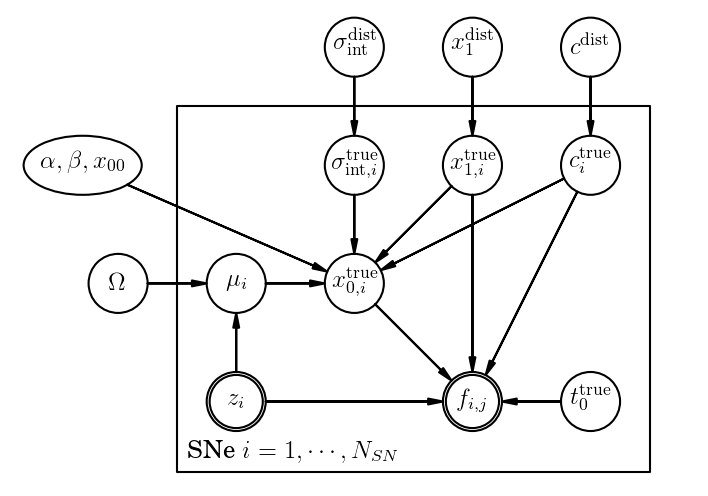
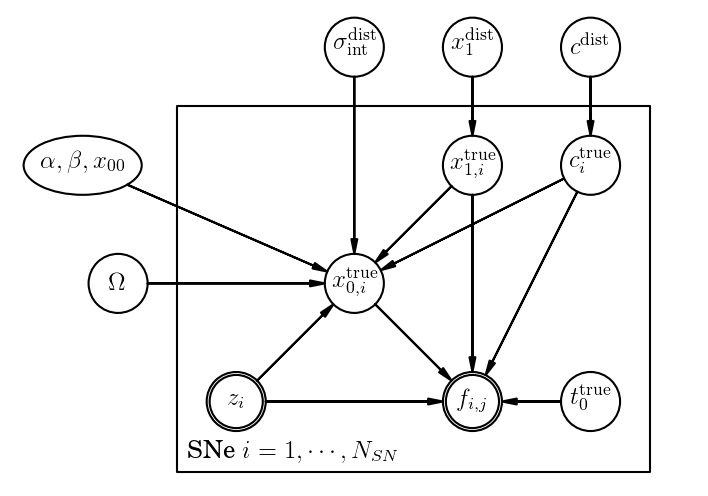
new PGM, rename naive sampling script,  add sample_lcs.py

diff --git a/sample_lcs.py b/sample_lcs.py
@@ -1,0 +1,99 @@
+#!/usr/bin/env python
+"""Sample one light curve at a time, plot the model and make a corner plot."""
+
+import os
+from os.path import join, basename
+from glob import glob
+
+import numpy as np
+import sncosmo
+import emcee
+from astropy.cosmology import FlatLambdaCDM
+
+from matplotlib import pyplot as plt
+import triangle
+
+if not os.path.exists("lcsamples"):
+    os.mkdir("lcsamples")
+
+# sampler parameters
+ndim = 4
+nwalkers = 20
+nburn = 100
+nsamples = 500
+
+
+# define likelihood
+model = sncosmo.Model(source='salt2-extended')
+
+bounds = {0: (-20., 40.),  # t0
+          2: (-4., 4.),  # x1
+          3: (-0.4, 0.4)}
+
+def lnlike(parameters, data):
+    """Return log L for array of parameters."""
+
+    # If any parameters are out-of-bounds, return 0 probability.
+    for i, b in bounds.items():
+        if not b[0] < parameters[i] < b[1]:
+            return -np.inf
+
+    model.parameters[1:5] = parameters  # set model t0, x0, x1, c
+    mflux = model.bandflux(data['band'], data['time'],
+                           zp=data['zp'], zpsys=data['zpsys'])
+    chisq = np.sum(((data['flux'] - mflux) / data['fluxerr'])**2)
+    return -chisq / 2.
+
+
+def sample(data):
+    """Return MCMC samples for model defined above."""
+
+    # fix redshift in the model
+    model.set(z=data.meta['z'])
+
+    # Create sampler
+    sampler = emcee.EnsembleSampler(nwalkers, ndim, lnlike, args=(data,))
+
+    # Starting positions of walkers.
+    # Here we cheat by setting the "guess" equal to the known true parameters!
+    current = np.array([data.meta['t0'], data.meta['x0'], data.meta['x1'],
+                        data.meta['c']])
+    errors = np.array([1., 0.1*data.meta['x0'], 1., 0.1])
+    pos = [current + errors*np.random.randn(ndim) for i in range(nwalkers)]
+
+    # burn-in
+    pos, prob, state = sampler.run_mcmc(pos, nburn)
+    sampler.reset()
+
+    # production run
+    sampler.run_mcmc(pos, nsamples)
+    print("Avg acceptance fraction:", np.mean(sampler.acceptance_fraction))
+
+    return sampler.flatchain
+
+
+fnames = sorted(glob("testdata/*"))
+for fname in fnames:
+  
+    # read data, run sampler on it, save samples
+    data = sncosmo.read_lc(fname)
+    samples = sample(data)
+    sfname = (fname.replace("testdata", "lcsamples")
+               .replace(".dat", ".npy"))
+    np.save(sfname, samples)
+
+    # show mean parameters model with data
+    showparams = np.average(samples, axis=0)
+    figname = (fname.replace("testdata", "lcplots")
+               .replace(".dat", "_lcfit.png"))
+    model.parameters[1:5] = showparams
+    sncosmo.plot_lc(data, model, fname=figname)
+
+    # Corner plot of samples.
+    labels = ["${0}$".format(s) for s in model.param_names_latex[1:5]]
+    fig = triangle.corner(samples, labels=labels, bins=30)
+    figname = (fname.replace("testdata", "lcplots")
+               .replace(".dat", "_corner.png"))
+    plt.savefig(figname)
+
+

diff --git a/gen_pgm.py b/gen_pgm.py
@@ -15,14 +15,12 @@ pgm.add_node(Node("x1dist", r"$x_1^{\mathrm{dist}}$", 4, 4))
 pgm.add_node(Node("cdist", r"$c^{\mathrm{dist}}$", 5, 4))
 
 # Per-SN parameters:  top line in the plate
-pgm.add_node(Node("sigitrue",
-                  r"$\sigma_{\mathrm{int}, i}^{\mathrm{true}}$", 3, 3))
 pgm.add_node(Node("x1itrue", r"$x_{1,i}^\mathrm{true}$", 4, 3))
 pgm.add_node(Node("citrue", r"$c_i^\mathrm{true}$", 5, 3))
 
 # Per-SN parameters: second line in the plate
 pgm.add_node(Node("x0itrue", r"$x_{0,i}^\mathrm{true}$", 3, 2))
-pgm.add_node(Node("mui", r"$\mu_i$", 2, 2))
+#pgm.add_node(Node("mui", r"$\mu_i$", 2, 2))
 
 # Per-SN parameters: third line in the plate
 pgm.add_node(Node("zi", r"$z_i$", 2, 1, observed=True))
@@ -48,17 +46,15 @@ pgm.add_node(Node("nuisance",
 # Add in the edges.
 pgm.add_edge("x1dist", "x1itrue")
 pgm.add_edge("cdist", "citrue")
-pgm.add_edge("sigdist", "sigitrue")
+pgm.add_edge("sigdist", "x0itrue")
 
 pgm.add_edge("x1itrue", "x0itrue")
 pgm.add_edge("citrue", "x0itrue")
-pgm.add_edge("sigitrue", "x0itrue")
 
-pgm.add_edge("cosmology", "mui")
-pgm.add_edge("mui", "x0itrue")
+pgm.add_edge("cosmology", "x0itrue")
 pgm.add_edge("nuisance", "x0itrue")
 
-pgm.add_edge("zi", "mui")
+pgm.add_edge("zi", "x0itrue")
 
 pgm.add_edge("x0itrue", "fij")
 pgm.add_edge("x1itrue", "fij")
